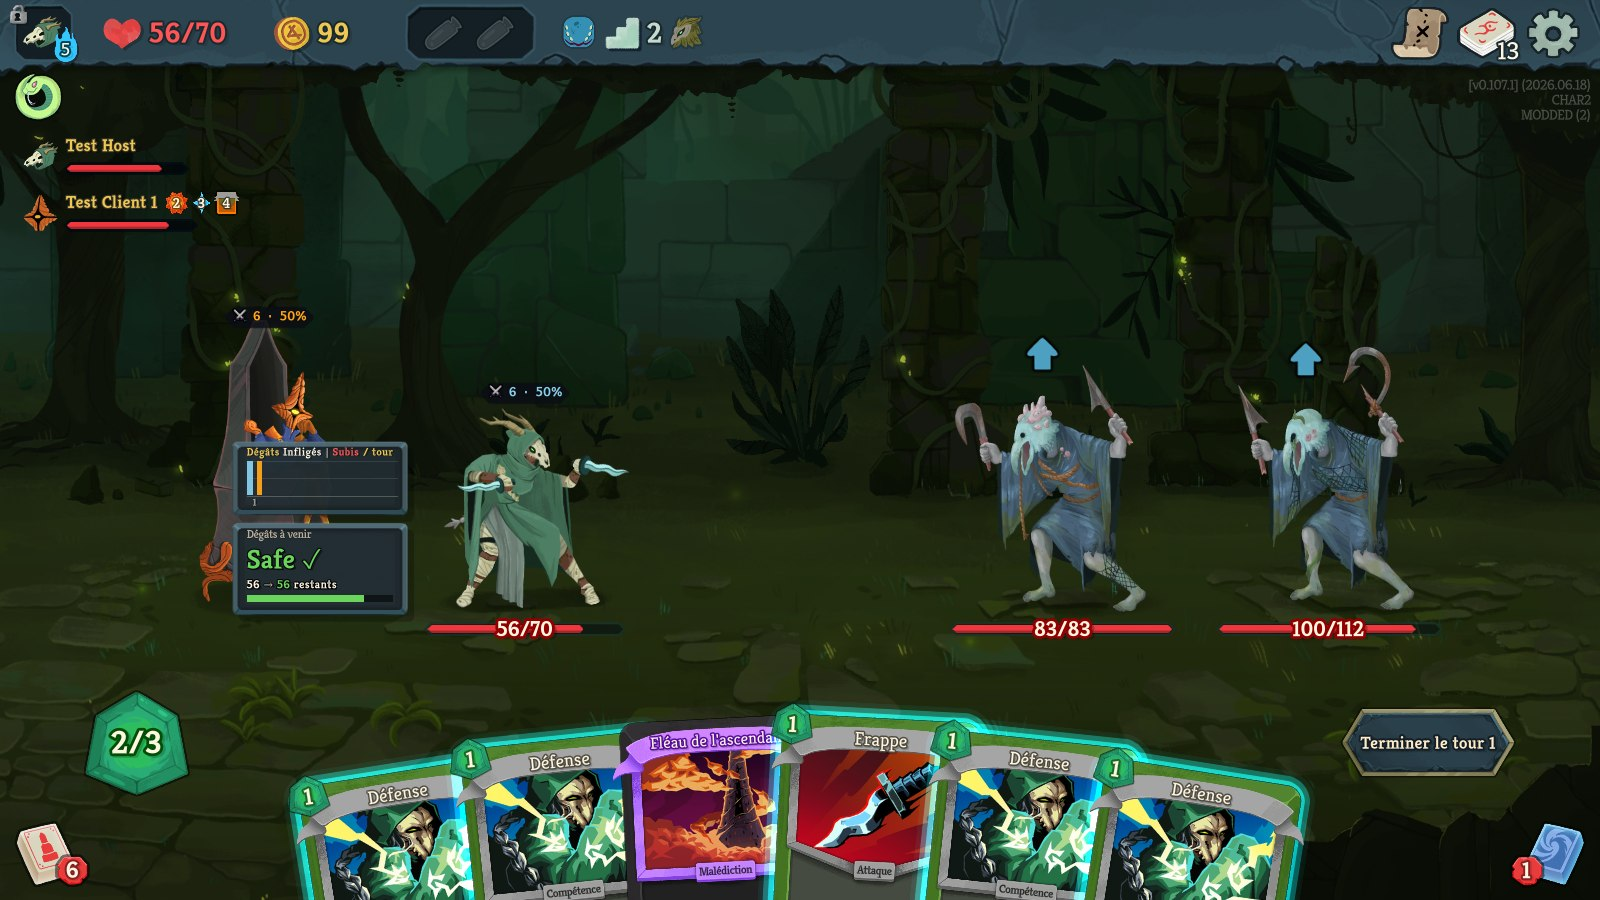
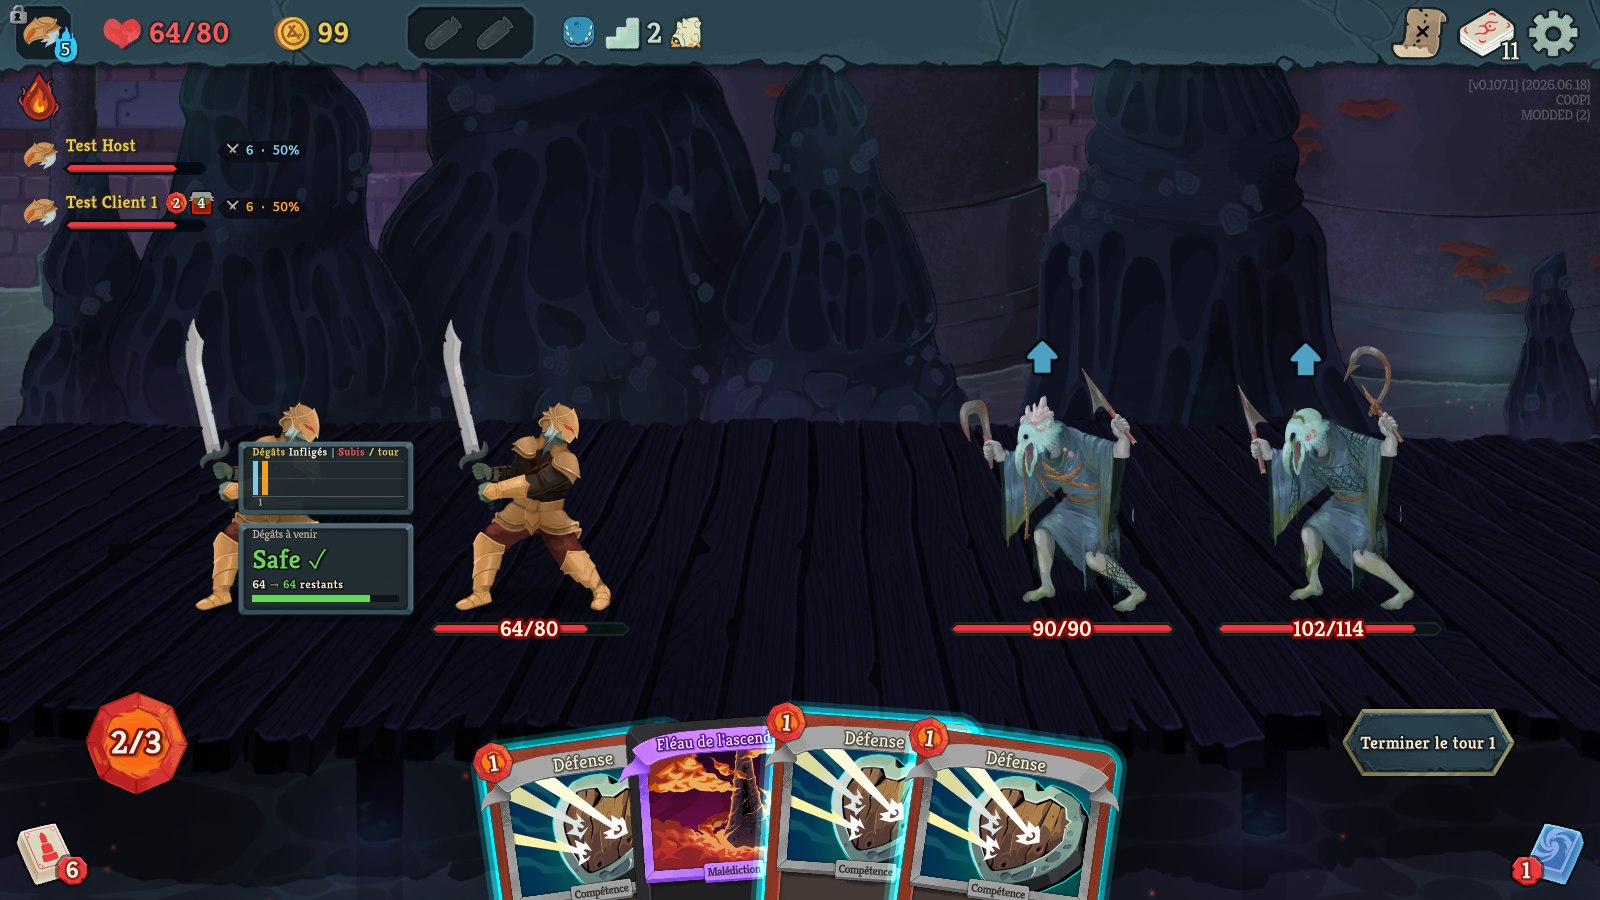
feat: party damage defaults to the player list; drop the 'both' mode
Next to each player's entry in the party list is the default; N cycles
list -> above the characters -> off. Main screenshot and Workshop image
use the list placement.

diff --git a/PartyHud.cs b/PartyHud.cs
@@ -8,14 +8,14 @@ using MegaCrit.Sts2.Core.Entities.Players;
 namespace SpireLedger;
 
 // Co-op party HUD: each player's damage dealt this fight (and share of the party's), always visible in
-// combat — above each player's character, next to each player's entry in the game's party list (top
-// left), or both. The party hotkey (config "party_hotkey", default N) cycles
-// above characters → list → both → hidden; the choice is saved as "party_hud". Solo runs show nothing.
+// combat — next to each player's entry in the game's party list (top left, the default) or above each
+// player's character. The party hotkey (config "party_hotkey", default N) cycles list → above
+// characters → hidden; the choice is saved as "party_hud". Solo runs show nothing.
 public static partial class DamageChartsMod
 {
-    private enum PartyHudMode { Characters, List, Both, Off }
+    private enum PartyHudMode { List, Characters, Off }
 
-    private static PartyHudMode _partyHud = PartyHudMode.Characters;
+    private static PartyHudMode _partyHud = PartyHudMode.List;
     private static (Key Key, List<Key> Mods, string Spec, bool Down) _partyToggle = (Key.N, new(), "n", false);
 
     private static CanvasLayer? _partyLayer;
@@ -36,18 +36,16 @@ public static partial class DamageChartsMod
 
     private static string PartyHudSpec(PartyHudMode m) => m switch
     {
-        PartyHudMode.List => "list",
-        PartyHudMode.Both => "both",
+        PartyHudMode.Characters => "characters",
         PartyHudMode.Off => "off",
-        _ => "characters",
+        _ => "list",
     };
 
     private static PartyHudMode ParsePartyHud(string? s) => s switch
     {
-        "list" => PartyHudMode.List,
-        "both" => PartyHudMode.Both,
+        "characters" => PartyHudMode.Characters,
         "off" => PartyHudMode.Off,
-        _ => PartyHudMode.Characters,
+        _ => PartyHudMode.List,
     };
 
     private static void HandlePartyToggle()
@@ -55,10 +53,9 @@ public static partial class DamageChartsMod
         if (!Pressed(ref _partyToggle) || !SafeIsInCombat() || _players.Count < 2) return;
         _partyHud = _partyHud switch
         {
-            PartyHudMode.Characters => PartyHudMode.List,
-            PartyHudMode.List => PartyHudMode.Both,
-            PartyHudMode.Both => PartyHudMode.Off,
-            _ => PartyHudMode.Characters,
+            PartyHudMode.List => PartyHudMode.Characters,
+            PartyHudMode.Characters => PartyHudMode.Off,
+            _ => PartyHudMode.List,
         };
         Toast.Show($"{Loc.T("party_hud_" + PartyHudSpec(_partyHud))}  ({_partyToggle.Spec.ToUpperInvariant()})");
         SaveConfig();
@@ -88,12 +85,7 @@ public static partial class DamageChartsMod
             var vp = _partyLayer.GetViewport().GetVisibleRect().Size;
             float sc = UiTheme.Scale(vp) * _uiScale;
 
-            var places = _partyHud switch
-            {
-                PartyHudMode.List => new[] { false },
-                PartyHudMode.Both => new[] { true, false },
-                _ => new[] { true },
-            };
+            var places = _partyHud == PartyHudMode.Characters ? new[] { true } : new[] { false };
             int cell = 0;
             for (int s = 0; s < _players.Count; s++)
             {

diff --git a/Loc.cs b/Loc.cs
@@ -100,7 +100,6 @@ internal static class Loc
         ["bars_off"] = ("Damage chart hidden", "Graphique des dégâts masqué"),
         ["party_hud_list"] = ("Party damage: next to the player list", "Dégâts de l'équipe : à côté de la liste des joueurs"),
         ["party_hud_characters"] = ("Party damage: above the characters", "Dégâts de l'équipe : au-dessus des personnages"),
-        ["party_hud_both"] = ("Party damage: above the characters and next to the list", "Dégâts de l'équipe : au-dessus des personnages et à côté de la liste"),
         ["party_hud_off"] = ("Party damage hidden", "Dégâts de l'équipe masqués"),
         ["ci_not_in_deck"] = ("Not in your deck", "Pas dans votre deck"),
         ["ci_in_deck"] = ("In your deck: {0}", "Dans votre deck : {0}"),

diff --git a/README.md b/README.md
@@ -22,11 +22,11 @@
   in your deck (and upgraded), how often you played it this run, and its history — in how many of your
   past runs it was in your final deck and how many you won (from the game's own run history, so runs
   played without the mod count too), plus plays per run from Spire Ledger's run files.
-- **In-combat toggles**: `V` forecast, `B` damage chart, `N` co-op party damage (next to the player list /
-  above the characters / hidden).
+- **In-combat toggles**: `V` forecast, `B` damage chart, `N` co-op party damage (next to the player list,
+  above the characters, or hidden).
 - The mod's own labels follow the game language (French / English).
 
-| Co-op combat: damage above each player | Forecast: HP and max HP about to be lost |
+| Co-op combat: damage next to each player, forecast | Forecast: HP and max HP about to be lost |
 |---|---|
 | ![](docs/screenshots/1_coop_combat.jpg) | ![](docs/screenshots/2_forecast_max_hp.jpg) |
 | **Card choices: copies in deck, plays, history** | **Ledger: runs with a teammate, you vs them** |
@@ -204,9 +204,9 @@ page). `scripts/package-workshop.sh` is the macOS equivalent inherited from Dama
 
 - `hotkey`: a bare key like `c` (the default) or `f9`, or modifier+key, e.g. `cmd+d`, `shift+d`, `alt+d`, `ctrl+d`.
 - `forecast`: set `false` to hide the incoming-damage forecast. In combat, **`V`** shows/hides it.
-- `party_hud`: co-op only — each player's damage this fight and share of the party, `"characters"` (default)
-  above each character, `"list"` next to the player list at the top left, `"both"`, or `"off"`. In
-  combat, **`N`** (`party_hotkey`) cycles characters → list → both → off.
+- `party_hud`: co-op only — each player's damage this fight and share of the party, `"list"` (default)
+  next to each player in the party list at the top left, `"characters"` above each character, or `"off"`.
+  In combat, **`N`** (`party_hotkey`) cycles list → characters → off.
 - `forecast_hotkey` / `bars_hotkey`: the in-combat toggles for the forecast (default `v`) and the damage
   chart (default `b`); same syntax as `hotkey`. Toggling saves `forecast` / `show_bars`.
 - `forecast_anchor`: `"player"` (default) docks the forecast beside your character; dragging it switches
